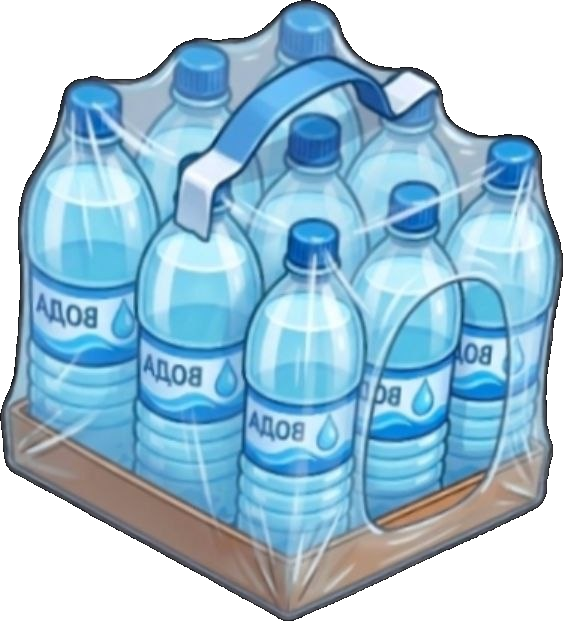
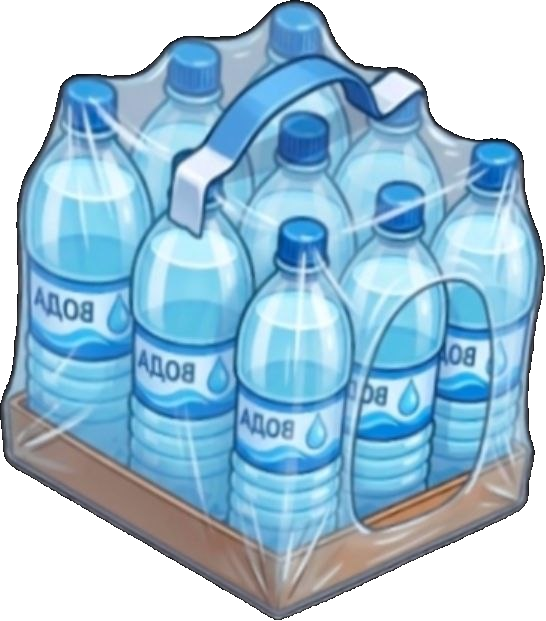
Replace pack sprite (v226).

diff --git a/02-sklad/index.html b/02-sklad/index.html
@@ -8,9 +8,9 @@
     <title>Склад</title>
     <meta name="theme-color" content="#14110d" />
     <meta name="apple-mobile-web-app-capable" content="yes" />
-    <link rel="manifest" href="manifest.json?v=225" />
+    <link rel="manifest" href="manifest.json?v=226" />
     <link rel="icon" href="../icon.svg" type="image/svg+xml" />
-    <link rel="stylesheet" href="style.css?v=225" />
+    <link rel="stylesheet" href="style.css?v=226" />
   </head>
   <body>
     <div class="scene" aria-hidden="true">
@@ -216,6 +216,6 @@
       </div>
     </div>
 
-    <script src="game.js?v=225"></script>
+    <script src="game.js?v=226"></script>
   </body>
 </html>

diff --git a/02-sklad/game.js b/02-sklad/game.js
@@ -1173,9 +1173,9 @@ function palWood(name) {
   );
 }
 
-const EMPTY_PAL = "art/pal-empty.png?v=225";
-const PACK_PIC = "art/pack.png?v=225";
-const YARD_PIC = "art/yard.jpg?v=225";
+const EMPTY_PAL = "art/pal-empty.png?v=226";
+const PACK_PIC = "art/pack.png?v=226";
+const YARD_PIC = "art/yard.jpg?v=226";
 const ART_URLS = [
   YARD_PIC,
   EMPTY_PAL,

diff --git a/02-sklad/style.css b/02-sklad/style.css
@@ -4342,7 +4342,7 @@ body.iso-yard .inside.yard-locked {
 
 body.iso-yard .inside-pic {
   background:
-    url("art/yard.jpg?v=225") center center / 100% 100% no-repeat,
+    url("art/yard.jpg?v=226") center center / 100% 100% no-repeat,
     #c4b48c;
 }
 
